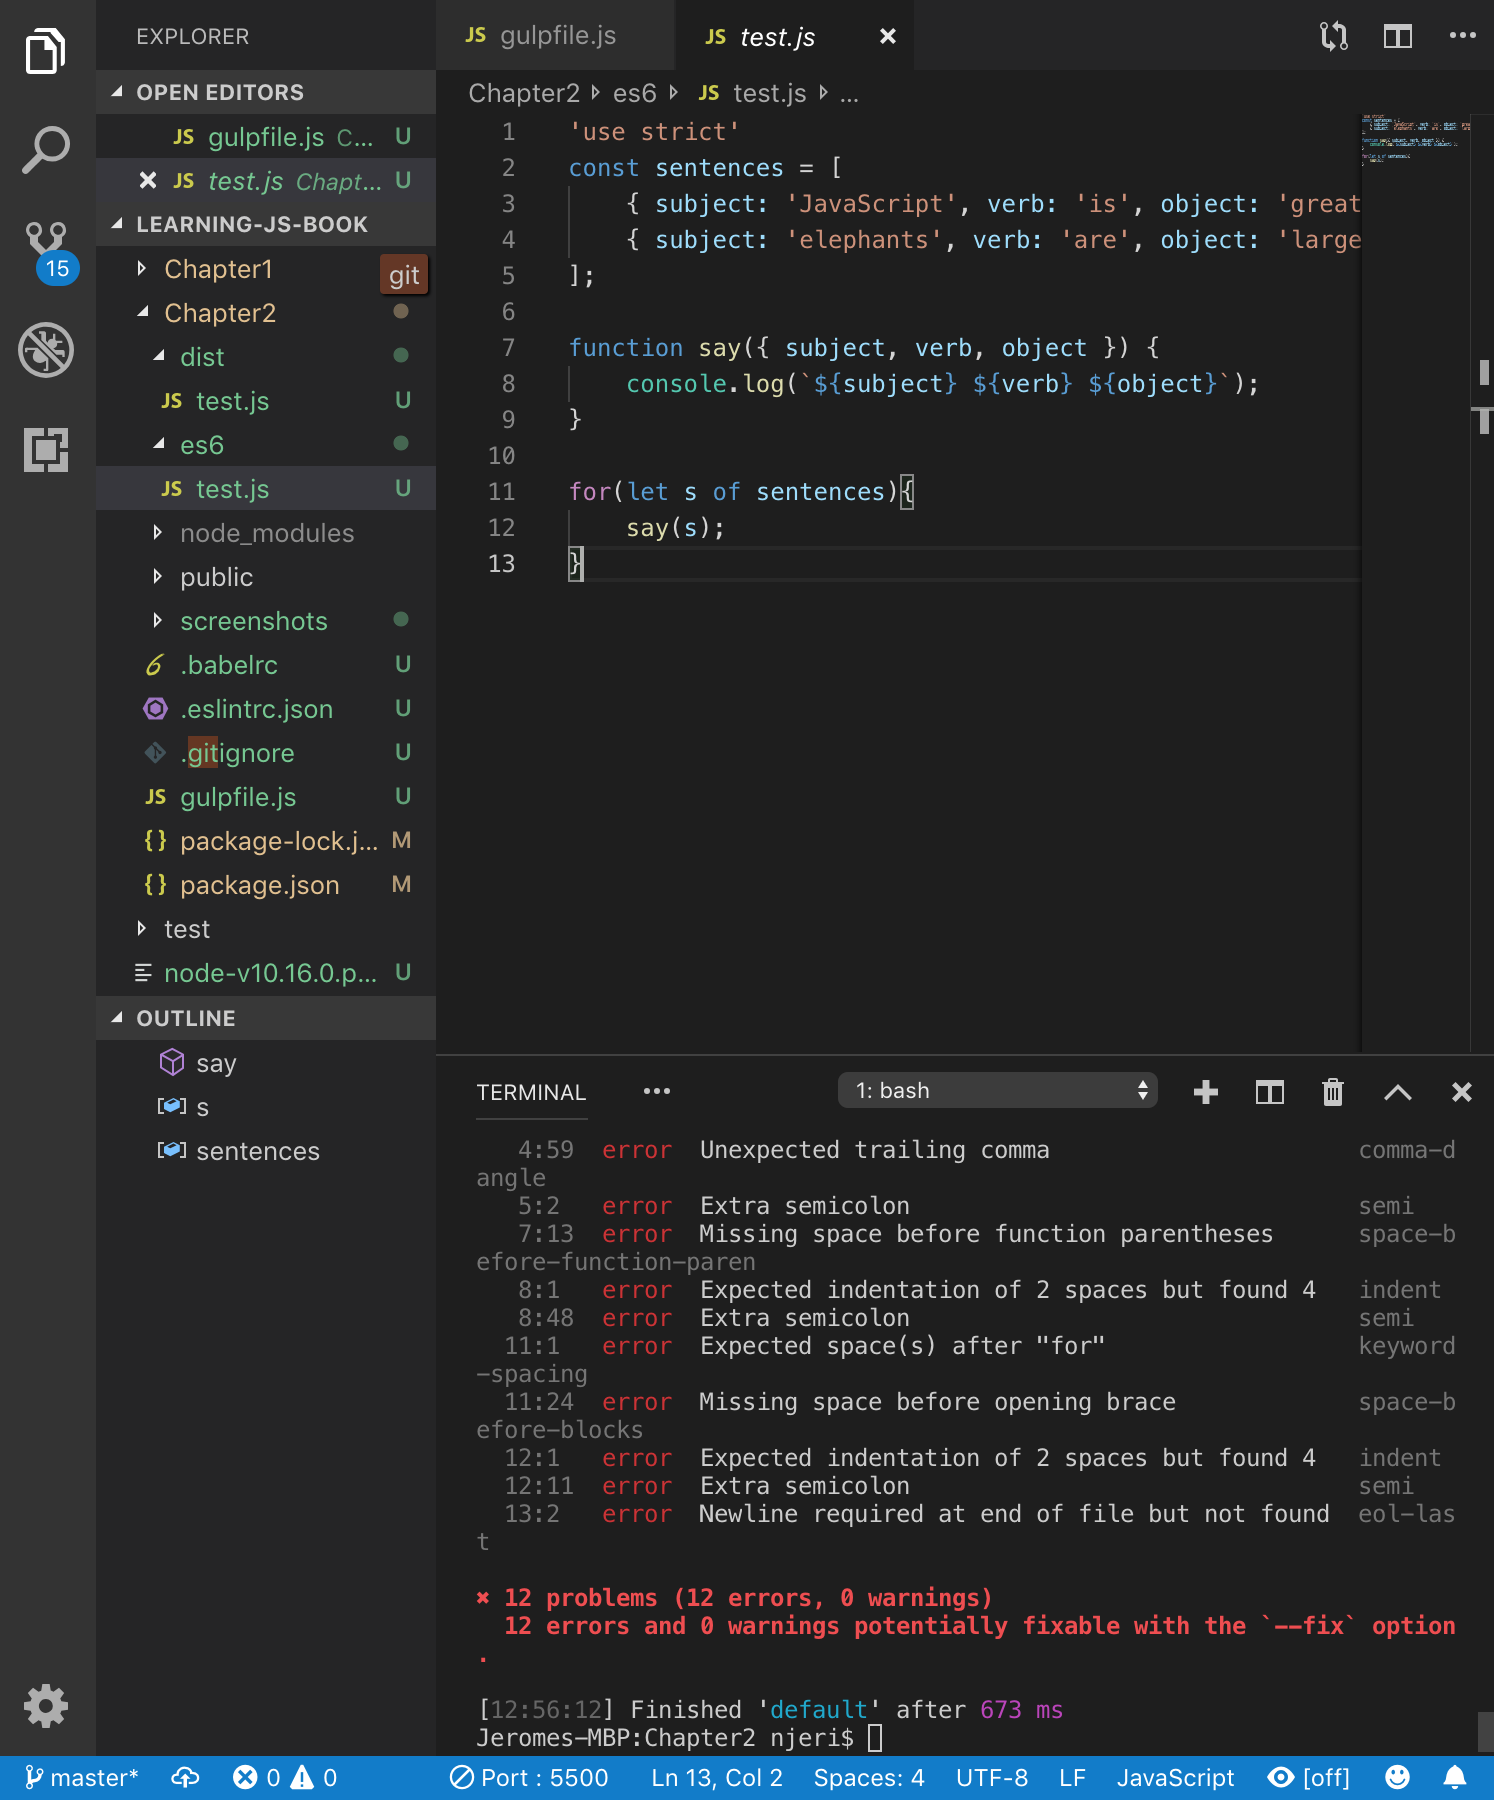
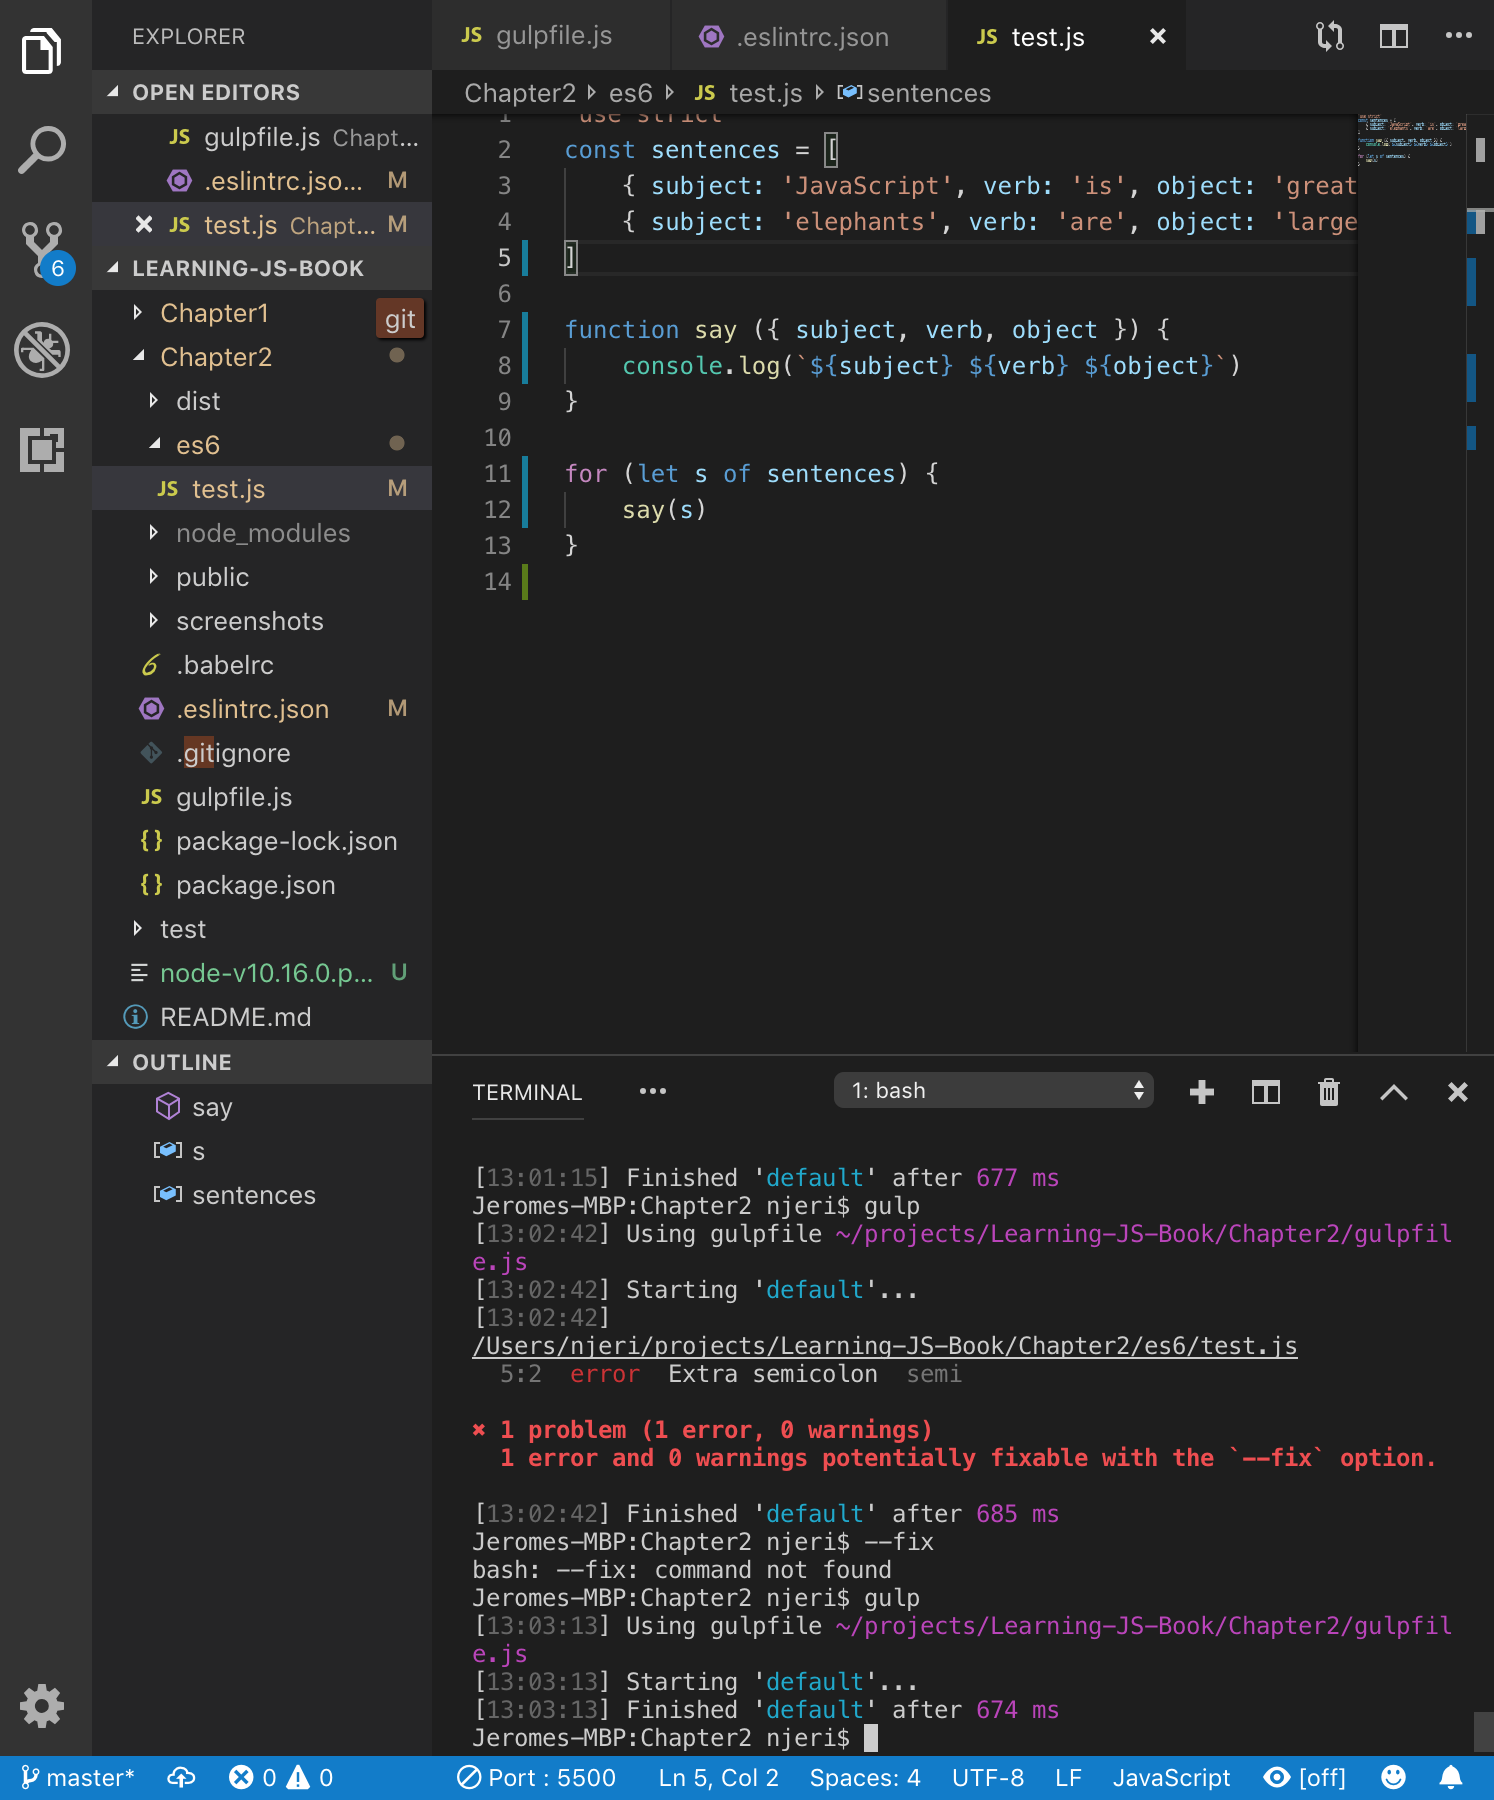
update

diff --git a/Chapter2/es6/test.js b/Chapter2/es6/test.js
@@ -2,12 +2,12 @@
 const sentences = [
     { subject: 'JavaScript', verb: 'is', object: 'great' },
     { subject: 'elephants', verb: 'are', object: 'large' },
-];
+]
 
-function say({ subject, verb, object }) {
-    console.log(`${subject} ${verb} ${object}`);
+function say ({ subject, verb, object }) {
+    console.log(`${subject} ${verb} ${object}`)
 }
 
-for(let s of sentences){
-    say(s);
+for (let s of sentences) {
+    say(s)
 }
